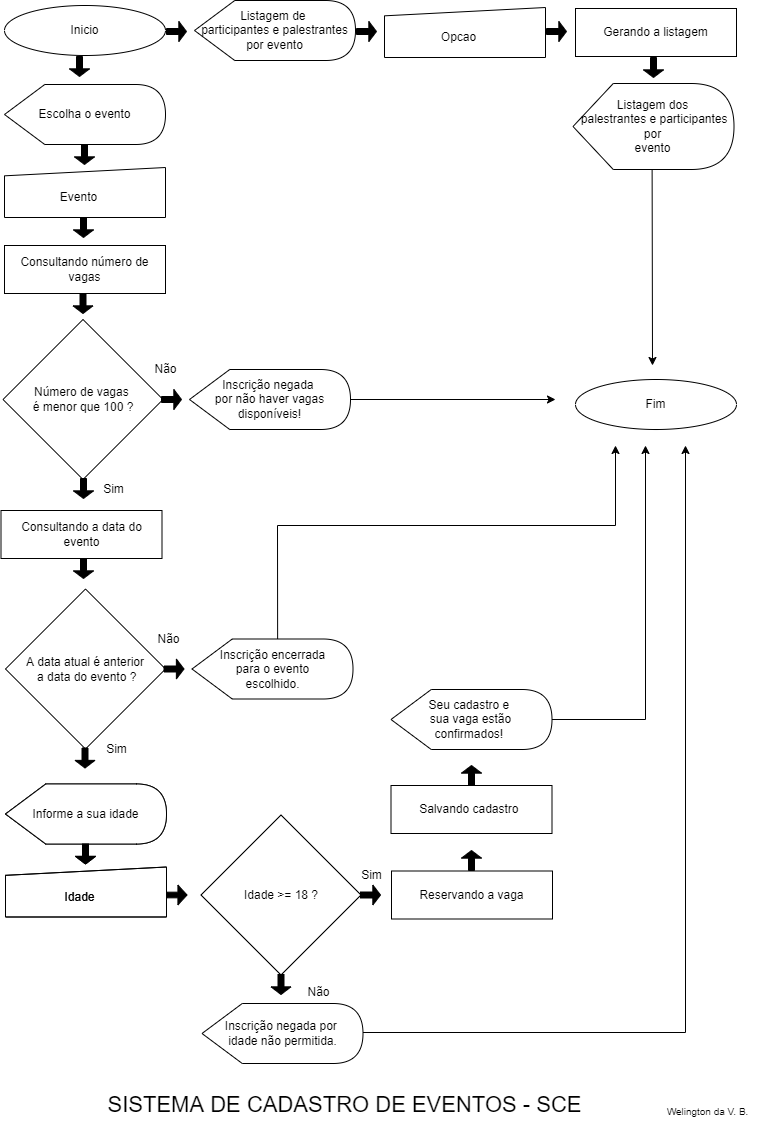
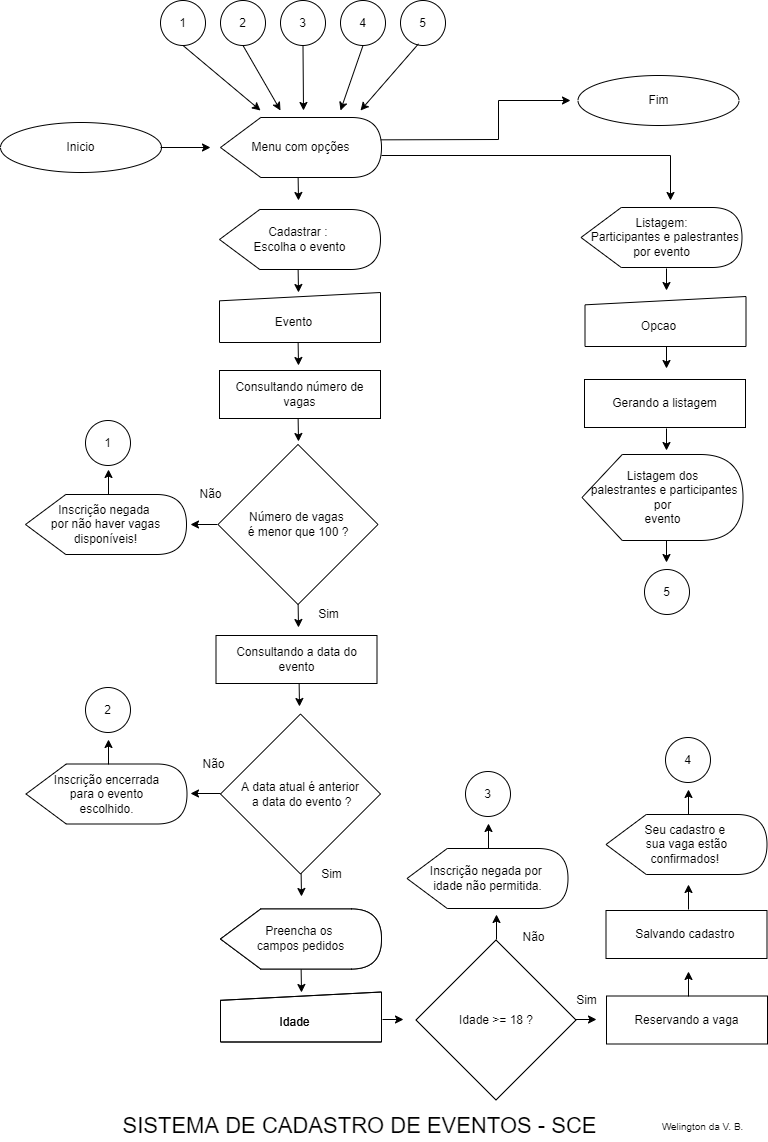
Fluxograma corrigido e readme atualizado

diff --git a/README.md b/README.md
@@ -78,5 +78,7 @@ Fluxograma corrigido e atualizado
 
 -----------------------------------------------------------
 
+Fluxograma corrigido e readme atualizado 
+
 
 
